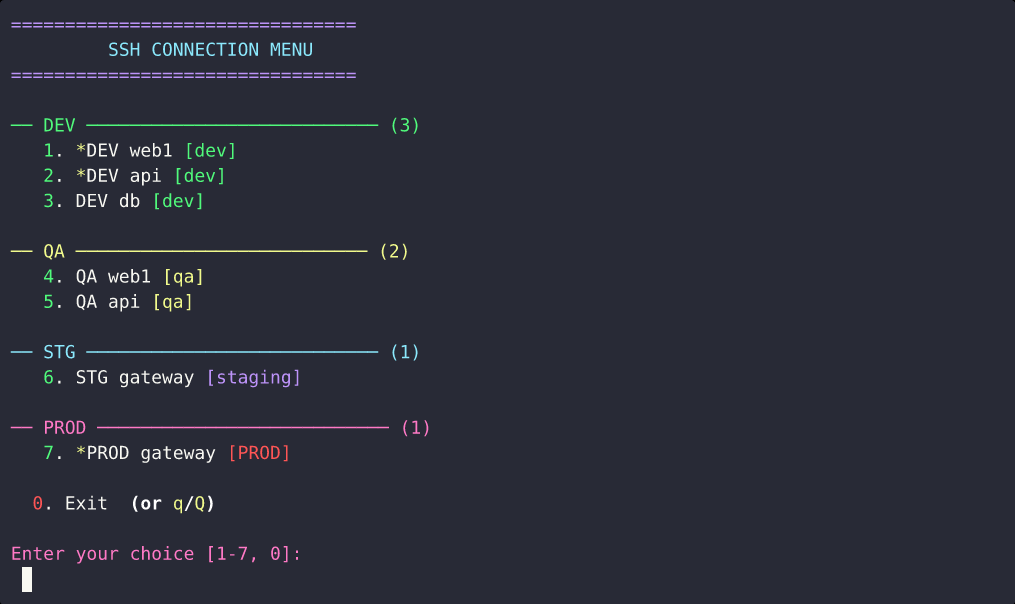
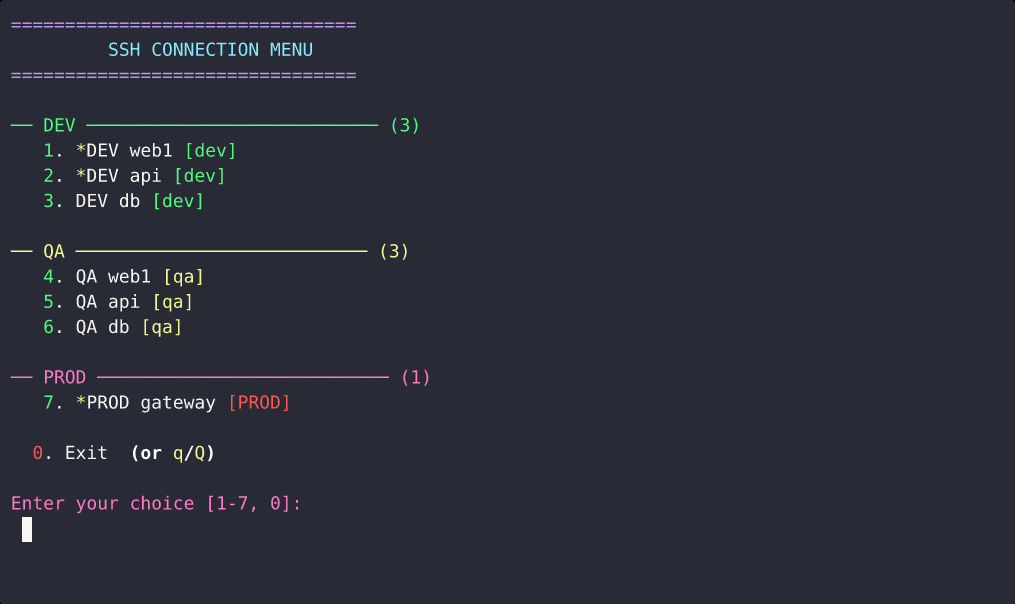
Remove STG/staging — scheme is now DEV/QA/PROD
Drop the staging environment everywhere: the case statements in ssh_menu.sh
(get_env_tag/site_color_for/tab_color_for/navigator_url_for), the example
config, the README text, and all demo assets. Re-recorded the real fzf GIF
and screenshots (01-04) and regenerated the tab-color reference (05) against
the DEV/QA/PROD config.

Changed region(s): [[0.0, 0.5364, 0.4276, 0.7748], [0.0, 0.8046, 0.2749, 0.9834], [0.397, 0.6854, 0.4276, 0.7152]]

diff --git a/README.md b/README.md
@@ -9,7 +9,7 @@ Terminal tab. One bash script, one plain text file, no daemon.
 
 > 💡 **Best experience: Windows + WSL with [Windows Terminal](https://aka.ms/terminal).**
 > That combo unlocks the headline feature — every connection opens in its **own
-> tab, color-coded by environment** (dev 🟢 → qa 🟡 → staging 🔵 → prod 🔴) via
+> tab, color-coded by environment** (dev 🟢 → qa 🟡 → prod 🔴) via
 > `wt.exe --tabColor`, so you can tell at a glance which environment each tab is
 > on. `ssh_menu` runs fine on plain Linux/macOS too (fuzzy menu, favorites,
 > recency, preview, prod guard) — you just don't get the colored tabs, since
@@ -41,7 +41,7 @@ it isn't in the recording, but you'll see it the moment you connect.*
 > one-line install per platform.
 >
 > On WSL, connecting opens a Windows Terminal tab color-coded by environment
-> (dev green → qa amber → staging blue → prod red). That tab bar is a Windows
+> (dev green → qa amber → prod red). That tab bar is a Windows
 > GUI element, so it isn't shown here — but you'll see it the moment you
 > connect.
 
@@ -61,7 +61,7 @@ one fast when you have dozens. `ssh_menu` is the picker:
   URL, favorite status, last-used time, and total connect count.
 - **Colored terminal tabs** — on WSL, each environment opens in a Windows
   Terminal tab tinted by site so the color signals severity at a glance
-  (dev green → qa amber → staging blue → prod red).
+  (dev green → qa amber → prod red).
 - **Open a dashboard** for the highlighted host with `Ctrl-O`.
 - **Production guard** — any `PROD` host makes you type `YES` before it
   connects.
@@ -123,7 +123,7 @@ Don't do it by hand — just ask. Paste a prompt like:
 
 > Install ssh_menu from https://github.com/ShawnLi42/ssh-menu: clone it, run
 > `install.sh`, and make sure `fzf` is installed. Then build my
-> `~/.ssh_menu.conf` — group hosts by environment (DEV/QA/STG/PROD), star the
+> `~/.ssh_menu.conf` — group hosts by environment (DEV/QA/PROD), star the
 > ones I use daily, and use the right `user@host:port` for each. If I'm on WSL,
 > confirm `wt.exe` is available so I get the colored tabs.
 
@@ -168,7 +168,7 @@ One connection per line in `~/.ssh_menu.conf`:
 [* ]Name:user@host:port
 ```
 
-- The **first word of `Name`** is the *site* (e.g. `DEV`, `QA`, `STG`, `PROD`)
+- The **first word of `Name`** is the *site* (e.g. `DEV`, `QA`, `PROD`)
   and drives the colored tag, group color, tab color, and dashboard URL.
 - A leading **`* `** marks the entry a **favorite**.
 - Lines starting with `#` and blank lines are ignored.
@@ -187,7 +187,7 @@ plain `case` statements near the top of `ssh_menu.sh`:
 
 | Function | Controls |
 |----------|----------|
-| `get_env_tag` | the `[dev]` / `[qa]` / `[staging]` / `[PROD]` tag + color |
+| `get_env_tag` | the `[dev]` / `[qa]` / `[PROD]` tag + color |
 | `site_color_for` | the group header color in the numeric menu |
 | `tab_color_for` | the Windows Terminal tab color (and whether a tab opens at all) |
 | `navigator_url_for` | the dashboard URL opened with `Ctrl-O` |
